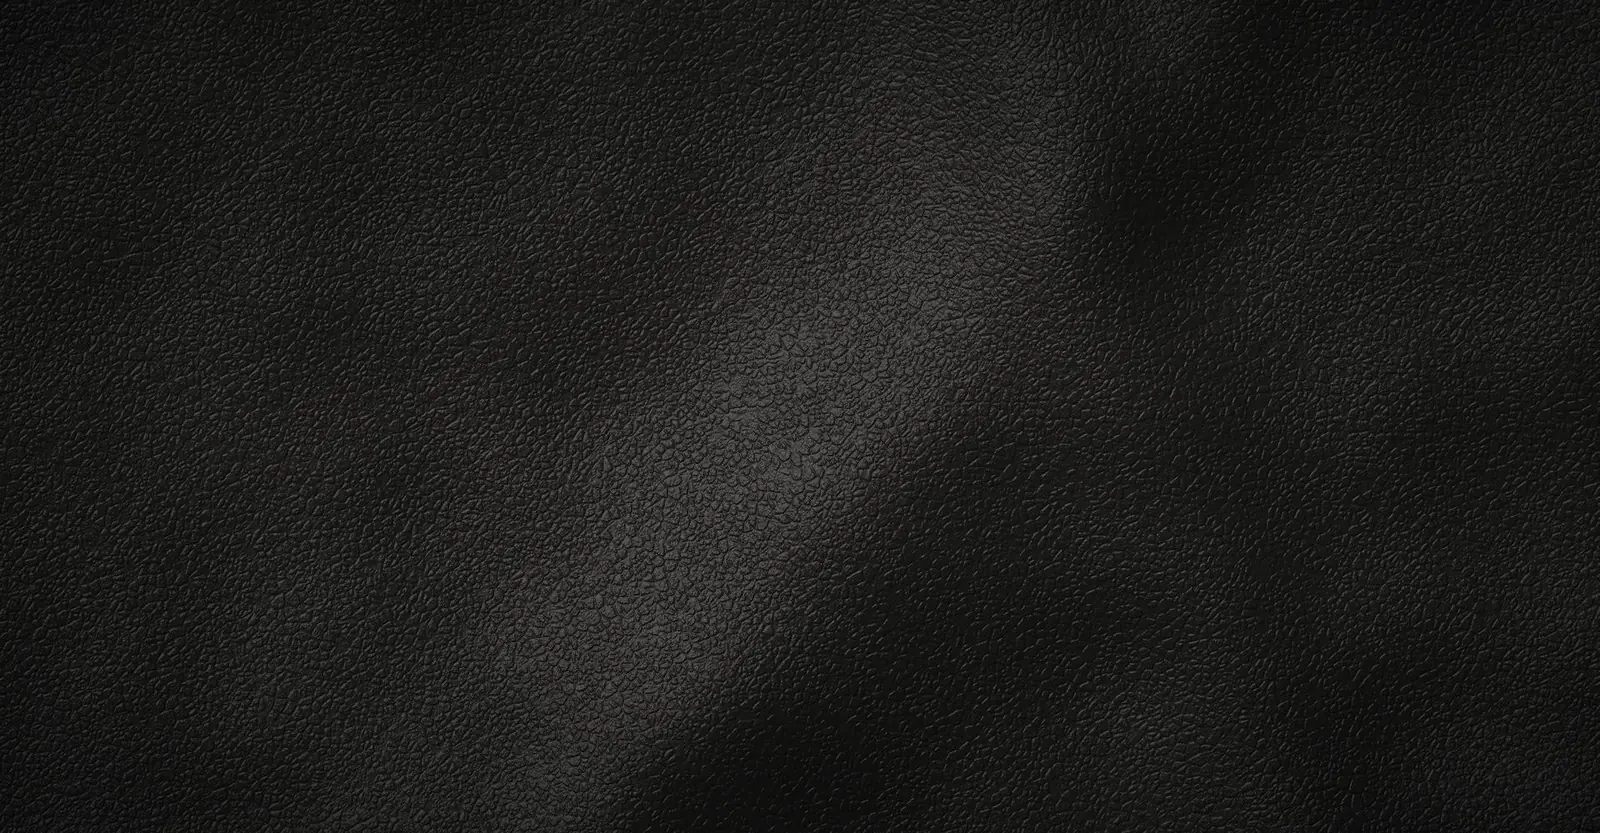
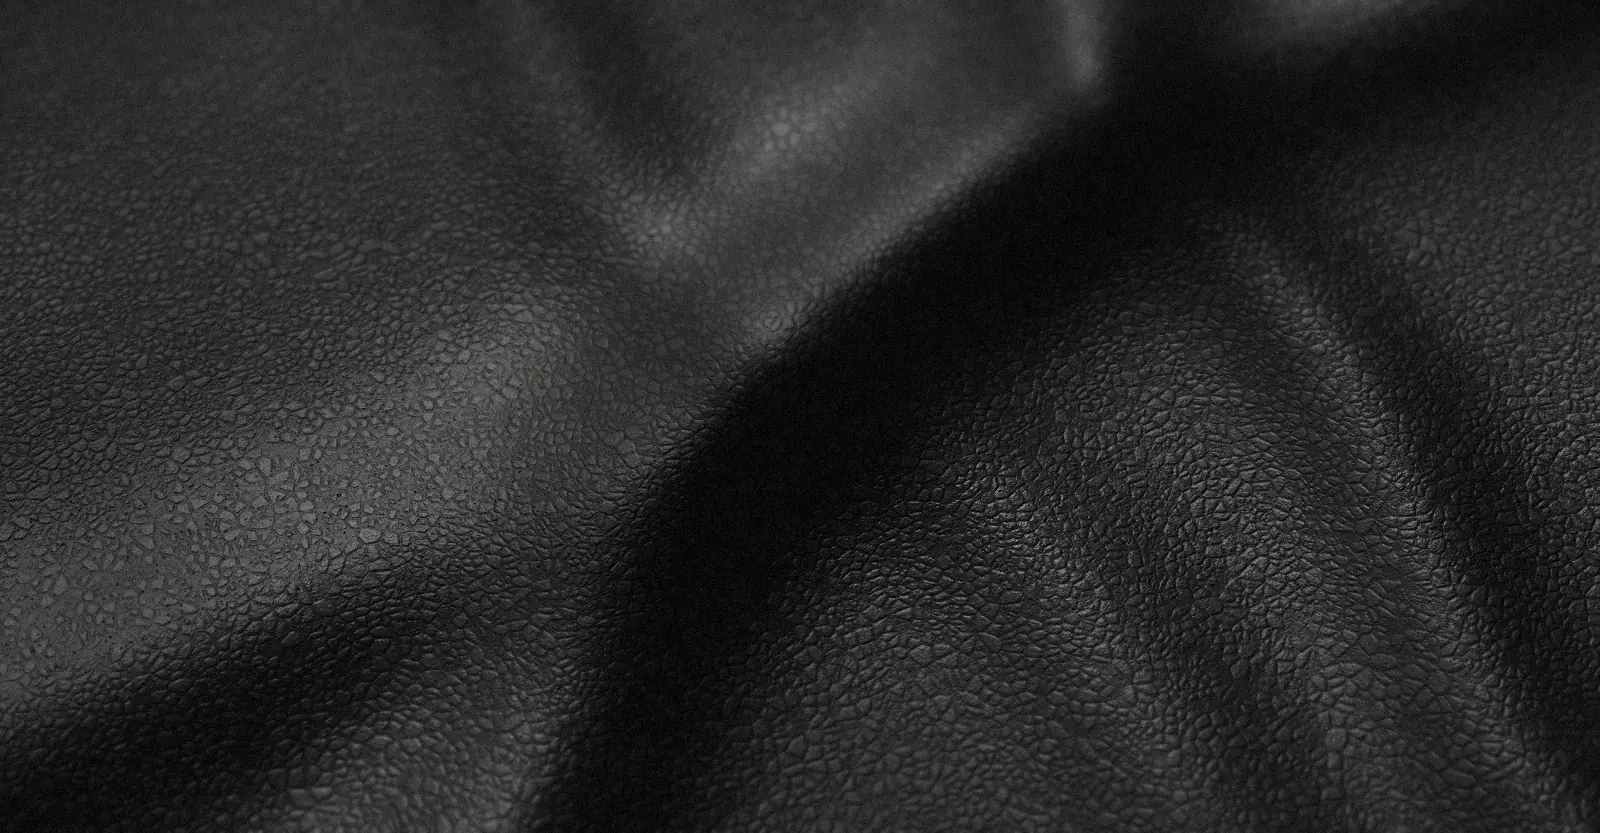
Slider deri görsellerini daha gerçekçi hale getir
- Düzensiz, farklı boyutlarda deri gözenekleri, kırışık gölgeleri,
  kılcal kırışıklar ve gözenek noktaları
- Dökümlü deri kıvrımları, yer yer değişen parlaklık
- Hafif açılı perspektif, alan derinliği bulanıklığı ve fotoğraf greni
- Görsel bağlantılarına sürüm eklendi (tarayıcı önbelleği için)

Claude-Session: https://claude.ai/code/session_01QbJWTuQmsXd22hGYyVVfSo

diff --git a/css/style.css b/css/style.css
@@ -467,9 +467,9 @@ p  { margin: 0 0 1em; }
 .slide-inner { position: relative; z-index: 2; width: 100%; }
 
 /* Deri görselleri: ::before görsel (yavaş yakınlaşma), ::after okunabilirlik katmanı */
-.slide-1 { --slide-img: url("../assets/img/slide-1.webp"); }
-.slide-2 { --slide-img: url("../assets/img/slide-2.webp"); }
-.slide-3 { --slide-img: url("../assets/img/slide-3.webp"); }
+.slide-1 { --slide-img: url("../assets/img/slide-1.webp?v=2"); }
+.slide-2 { --slide-img: url("../assets/img/slide-2.webp?v=2"); }
+.slide-3 { --slide-img: url("../assets/img/slide-3.webp?v=2"); }
 .slide::before,
 .slide::after {
   content: "";

diff --git a/hizmetlerimiz.html b/hizmetlerimiz.html
@@ -13,7 +13,7 @@
   <link rel="preconnect" href="https://fonts.googleapis.com">
   <link rel="preconnect" href="https://fonts.gstatic.com" crossorigin>
   <link href="https://fonts.googleapis.com/css2?family=Cormorant+Garamond:wght@500;600;700&family=Inter:wght@400;500;600&display=swap" rel="stylesheet">
-  <link rel="stylesheet" href="css/style.css?v=8">
+  <link rel="stylesheet" href="css/style.css?v=9">
 </head>
 <body data-page="hizmetlerimiz">
 
@@ -303,6 +303,6 @@
     </div>
   </footer>
 
-  <script src="js/main.js?v=8"></script>
+  <script src="js/main.js?v=9"></script>
 </body>
 </html>

diff --git a/urunlerimiz.html b/urunlerimiz.html
@@ -13,7 +13,7 @@
   <link rel="preconnect" href="https://fonts.googleapis.com">
   <link rel="preconnect" href="https://fonts.gstatic.com" crossorigin>
   <link href="https://fonts.googleapis.com/css2?family=Cormorant+Garamond:wght@500;600;700&family=Inter:wght@400;500;600&display=swap" rel="stylesheet">
-  <link rel="stylesheet" href="css/style.css?v=8">
+  <link rel="stylesheet" href="css/style.css?v=9">
 </head>
 <body data-page="urunlerimiz">
 
@@ -264,6 +264,6 @@
     </div>
   </footer>
 
-  <script src="js/main.js?v=8"></script>
+  <script src="js/main.js?v=9"></script>
 </body>
 </html>

diff --git a/hakkimizda.html b/hakkimizda.html
@@ -13,7 +13,7 @@
   <link rel="preconnect" href="https://fonts.googleapis.com">
   <link rel="preconnect" href="https://fonts.gstatic.com" crossorigin>
   <link href="https://fonts.googleapis.com/css2?family=Cormorant+Garamond:wght@500;600;700&family=Inter:wght@400;500;600&display=swap" rel="stylesheet">
-  <link rel="stylesheet" href="css/style.css?v=8">
+  <link rel="stylesheet" href="css/style.css?v=9">
 </head>
 <body data-page="hakkimizda">
 
@@ -273,6 +273,6 @@
     </div>
   </footer>
 
-  <script src="js/main.js?v=8"></script>
+  <script src="js/main.js?v=9"></script>
 </body>
 </html>

diff --git a/iletisim.html b/iletisim.html
@@ -13,7 +13,7 @@
   <link rel="preconnect" href="https://fonts.googleapis.com">
   <link rel="preconnect" href="https://fonts.gstatic.com" crossorigin>
   <link href="https://fonts.googleapis.com/css2?family=Cormorant+Garamond:wght@500;600;700&family=Inter:wght@400;500;600&display=swap" rel="stylesheet">
-  <link rel="stylesheet" href="css/style.css?v=8">
+  <link rel="stylesheet" href="css/style.css?v=9">
 </head>
 <body data-page="iletisim">
 
@@ -225,6 +225,6 @@
     </div>
   </footer>
 
-  <script src="js/main.js?v=8"></script>
+  <script src="js/main.js?v=9"></script>
 </body>
 </html>

diff --git a/index.html b/index.html
@@ -13,7 +13,7 @@
   <link rel="preconnect" href="https://fonts.googleapis.com">
   <link rel="preconnect" href="https://fonts.gstatic.com" crossorigin>
   <link href="https://fonts.googleapis.com/css2?family=Cormorant+Garamond:wght@500;600;700&family=Inter:wght@400;500;600&display=swap" rel="stylesheet">
-  <link rel="stylesheet" href="css/style.css?v=8">
+  <link rel="stylesheet" href="css/style.css?v=9">
 </head>
 <body data-page="anasayfa">
 
@@ -279,6 +279,6 @@
     </div>
   </footer>
 
-  <script src="js/main.js?v=8"></script>
+  <script src="js/main.js?v=9"></script>
 </body>
 </html>
